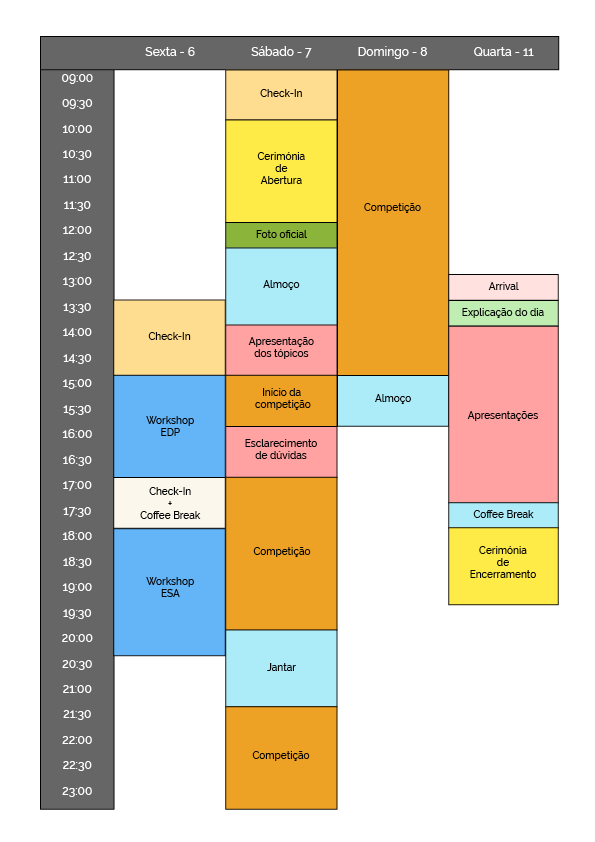
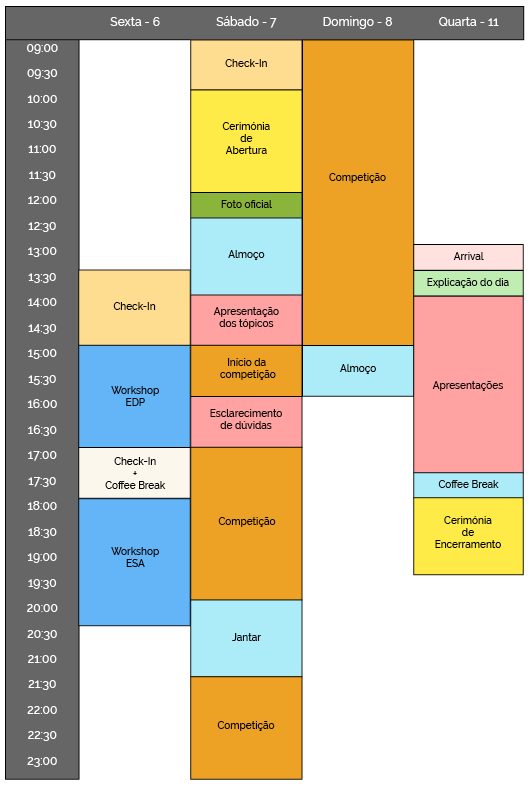
adicionar horario imagem

diff --git a/index.html b/index.html
@@ -71,6 +71,7 @@
         <img class="img-responsive" src="images/inicio_transparencia1222.jpg" />
       </section>
 
+      <!-- Info BEST -->
       <section id="BEST_Coimbra">
         <div class="text-container">
           <img
@@ -89,6 +90,7 @@
         </div>
       </section>
 
+      <!-- Info EBEC -->
       <section id="EBEC_Programe" class="partial">
         <div class="container">
           <div class="row">
@@ -120,8 +122,6 @@
           <div class="row">
             <div class="col-sm">
               <div class="image-container">
-                <!-- <img class="image1 image" src="images/CS_1.JPG" />
-                      <img class="image2 image" src="images/CS_2.JPG" /> -->
                 <img class="image" src="images/CS_2.JPG" />
               </div>
               <div class="EBEC_Programe_categories">
@@ -135,8 +135,6 @@
             </div>
             <div class="col-sm">
               <div class="image-container">
-                <!-- <img class="image1 image" src="images/TD_1.JPG" />
-                    <img class="image2 image" src="images/TD_2.JPG" /> -->
                 <img class="image" src="images/TD_1.JPG" />
               </div>
               <div class="EBEC_Programe_categories">
@@ -164,6 +162,7 @@
         </div>
       </section>
 
+      <!-- Info TBEC -->
       <section id="TBEC_Programe" class="partial">
         <div class="container">
           <div class="row">
@@ -188,17 +187,14 @@
         </div>
       </section>
 
+      <!-- Horario, Regulamento, Inscricao -->
       <section id="ebec" class="partial">
-        <!-- <h2>EBEC Coimbra</h2> -->
-
-        <div class="container">
+        <h2>Horário</h2>
+        <div class="image-container">
+          <img class="image" src="images/schedule.png"  style="width:60%"/>
+        </div>
           <div class="row button-container">
             <button class="button button1">Regulamento</button>
-            <button class="button button1">Horário</button>
-            <!-- <button class="button button3" type="button">
-              Localização
-              <p><span></span></p>
-            </button> -->
           </div>
           <div class="col-sm" id="participate">
             <div class="row button-container">
